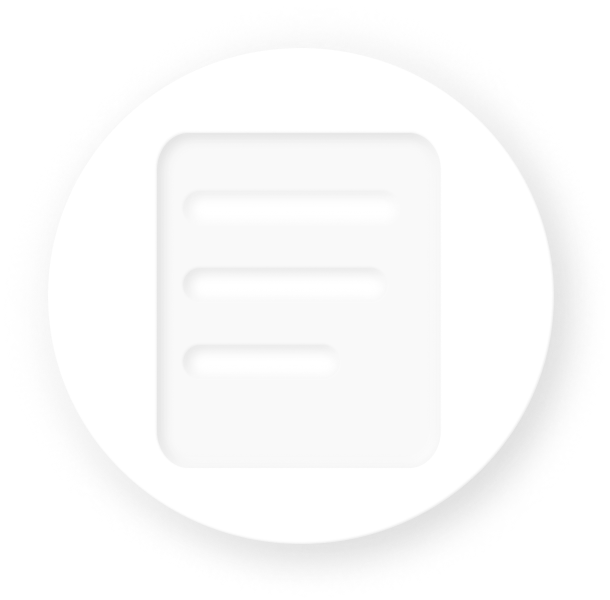
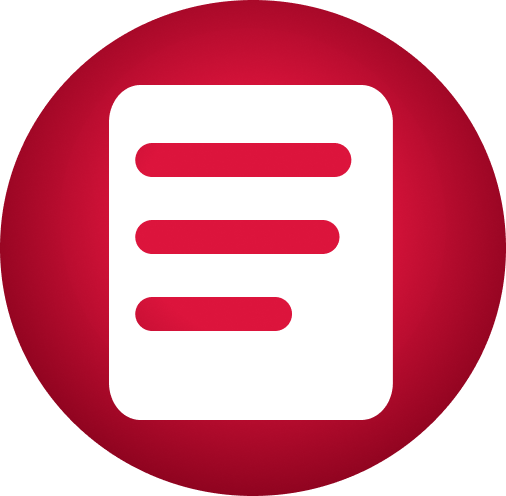
colors

diff --git a/global.scss b/global.scss
@@ -2,6 +2,7 @@ html {
     overflow: scroll;
     overflow-x: hidden;
     height: 110vh;
+    background-color:#2c2c30;
 }
 ::-webkit-scrollbar {
     width: 0;  /* Remove scrollbar space */
@@ -12,7 +13,7 @@ html {
     background: #FF0000;
 }
 div#content{
-    background-color:rgb(255, 255, 255);
+    background-color:#2c2c30;
     width: 95.5vw;
     display: flex;
     flex-wrap: wrap;
@@ -28,26 +29,28 @@ div#content{
         // border: 1px solid rgb(199, 199, 199);
         border-radius: 15px;
         transition: flex 0.4s ease-out, height 0.4s ease-out, margin 0.4s ease-out, opacity 0.4s ease-out;
-        background-color: white;
-        -webkit-box-shadow: 16px 16px 40px 0px rgba(218, 218, 218, 0.90), -16px -16px 32px 0px rgba(255, 255, 255, 0.90), 16px -16px 32px 0px rgba(218, 218, 218, 0.20), -16px 16px 32px 0px rgba(218, 218, 218, 0.20), -1px -1px 2px 0px rgba(218, 218, 218, 0.50) inset, 1px 1px 2px 0px rgba(255, 255, 255, 0.30) inset;
-        -moz-box-shadow: 16px 16px 40px 0px rgba(218, 218, 218, 0.90), -16px -16px 32px 0px rgba(255, 255, 255, 0.90), 16px -16px 32px 0px rgba(218, 218, 218, 0.20), -16px 16px 32px 0px rgba(218, 218, 218, 0.20), -1px -1px 2px 0px rgba(218, 218, 218, 0.50) inset, 1px 1px 2px 0px rgba(255, 255, 255, 0.30) inset;
-        box-shadow: 16px 16px 40px 0px rgba(218, 218, 218, 0.90), -16px -16px 32px 0px rgba(255, 255, 255, 0.90), 16px -16px 32px 0px rgba(218, 218, 218, 0.20), -16px 16px 32px 0px rgba(218, 218, 218, 0.20), -1px -1px 2px 0px rgba(218, 218, 218, 0.50) inset, 1px 1px 2px 0px rgba(255, 255, 255, 0.30) inset;
+        background: rgb(80,85,91);
+        background: linear-gradient(16deg, rgba(80,85,91,1) 0%, rgba(44,44,48,1) 35%, rgba(0,0,0,1) 100%);
+        -webkit-box-shadow: 0px 0px 47px -11px rgba(0,0,0,1);
+        -moz-box-shadow: 0px 0px 47px -11px rgba(0,0,0,1);
+        box-shadow: 0px 0px 47px -11px rgba(0,0,0,1);
         display: flex;
         justify-content: center;
         align-items: center;  
         font-family: 'Montserrat', sans-serif;
         // font-family: 'Raleway', sans-serif;
         font-size: 18pt;
-        font-weight: 500;
+        font-weight: 600;
         overflow: hidden;
         position: relative;
         text-transform: uppercase;
         flex-direction: column;
-        color: #000000;
-        text-shadow: 1px 1px 3px rgba(184, 184, 184, 0.89);
+        color: #DC143C;
+        text-shadow: 1px 1px 3px rgba(32, 7, 7, 0.89);
         }
     .icon{
         width: 6vw;
+        filter: drop-shadow(3px 5px 2px rgb(0 0 0 / 0.4));
     }
     .enigme{
         opacity: 0%;
@@ -256,7 +259,7 @@ div#content{
 
 //login 
 #blocker{
-   background-color: rgb(77, 77, 77);
+   background-color: rgb(0, 0, 0);
    height: 110vh;
    position: absolute;
    width: 100%;
@@ -268,7 +271,7 @@ div#content{
 //    display: none;
 }
 .blurred div{
-    background-color: rgb(255, 255, 255);
+    background-color:#000000;
     height: 100%;
     position: absolute;
     width: 100%;
@@ -280,7 +283,7 @@ div#content{
 }
 .blurred p{
     color: transparent;
-    text-shadow: 0 0 8px #929292;
+    text-shadow: 0 0 8px #DC143C;
 }
 .blurred img{
     filter: blur(8px);
@@ -310,6 +313,8 @@ div#content{
         transform: rotate(0.10turn);
         transition: margin 0.4s ease-out, transform 0.2s ease-out;
         border-radius: 50%;
+        filter: drop-shadow(3px 5px 2px rgb(0 0 0 / 0.4));
+        background-color: #272727;
      }
      .logo:hover{
         margin: 20px;
@@ -347,6 +352,7 @@ div#content{
         top: calc(50% - 20px);
         width: 40px;
         height: 40px;
+        display: none;
     }
   .uicon:nth-child(2) {
         transform: rotate(72deg) translateX(-9vw);

diff --git a/global.css b/global.css
@@ -2,6 +2,7 @@ html {
   overflow: scroll;
   overflow-x: hidden;
   height: 110vh;
+  background-color: #2c2c30;
 }
 
 ::-webkit-scrollbar {
@@ -15,7 +16,7 @@ html {
 }
 
 div#content {
-  background-color: rgb(255, 255, 255);
+  background-color: #2c2c30;
   width: 95.5vw;
   display: flex;
   flex-wrap: wrap;
@@ -32,23 +33,25 @@ div#content div.flex {
   box-sizing: border-box;
   border-radius: 15px;
   transition: flex 0.4s ease-out, height 0.4s ease-out, margin 0.4s ease-out, opacity 0.4s ease-out;
-  background-color: white;
-  box-shadow: 16px 16px 40px 0px rgba(218, 218, 218, 0.9), -16px -16px 32px 0px rgba(255, 255, 255, 0.9), 16px -16px 32px 0px rgba(218, 218, 218, 0.2), -16px 16px 32px 0px rgba(218, 218, 218, 0.2), -1px -1px 2px 0px rgba(218, 218, 218, 0.5) inset, 1px 1px 2px 0px rgba(255, 255, 255, 0.3) inset;
+  background: rgb(80, 85, 91);
+  background: linear-gradient(16deg, rgb(80, 85, 91) 0%, rgb(44, 44, 48) 35%, rgb(0, 0, 0) 100%);
+  box-shadow: 0px 0px 47px -11px rgb(0, 0, 0);
   display: flex;
   justify-content: center;
   align-items: center;
   font-family: "Montserrat", sans-serif;
   font-size: 18pt;
-  font-weight: 500;
+  font-weight: 600;
   overflow: hidden;
   position: relative;
   text-transform: uppercase;
   flex-direction: column;
-  color: #000000;
-  text-shadow: 1px 1px 3px rgba(184, 184, 184, 0.89);
+  color: #DC143C;
+  text-shadow: 1px 1px 3px rgba(32, 7, 7, 0.89);
 }
 div#content .icon {
   width: 6vw;
+  filter: drop-shadow(3px 5px 2px rgba(0, 0, 0, 0.4));
 }
 div#content .enigme {
   opacity: 0%;
@@ -236,7 +239,7 @@ div#content .plan.active ~ .budg {
 }
 
 #blocker {
-  background-color: rgb(77, 77, 77);
+  background-color: rgb(0, 0, 0);
   height: 110vh;
   position: absolute;
   width: 100%;
@@ -248,7 +251,7 @@ div#content .plan.active ~ .budg {
 }
 
 .blurred div {
-  background-color: rgb(255, 255, 255);
+  background-color: #000000;
   height: 100%;
   position: absolute;
   width: 100%;
@@ -261,7 +264,7 @@ div#content .plan.active ~ .budg {
 
 .blurred p {
   color: transparent;
-  text-shadow: 0 0 8px #929292;
+  text-shadow: 0 0 8px #DC143C;
 }
 
 .blurred img {
@@ -289,6 +292,8 @@ div#content .plan.active ~ .budg {
   transform: rotate(0.1turn);
   transition: margin 0.4s ease-out, transform 0.2s ease-out;
   border-radius: 50%;
+  filter: drop-shadow(3px 5px 2px rgba(0, 0, 0, 0.4));
+  background-color: #272727;
 }
 #uint .logo:hover {
   margin: 20px;
@@ -321,12 +326,12 @@ div#content .plan.active ~ .budg {
 #uint .uicon {
   width: 40px;
   background-color: #4400ff;
-  /* display: none; */
   position: absolute;
   left: calc(50% - 20px);
   top: calc(50% - 20px);
   width: 40px;
   height: 40px;
+  display: none;
 }
 #uint .uicon:nth-child(2) {
   transform: rotate(72deg) translateX(-9vw);

diff --git a/main.js b/main.js
@@ -37,7 +37,7 @@ for(i=0;i<x.length; i++){
          var selected = this;
          document.querySelector(".plan").removeEventListener('mouseout', scrollToTop);
          document.querySelector(".contact").removeEventListener('mouseout', scrollToTop);
-        document.querySelector("#blocker").style = "z-index:10; opacity: 20%; display: block;";
+        document.querySelector("#blocker").style = "z-index:10; opacity: 30%; display: block;";
         document.querySelector("#blocker").addEventListener('click', function(){
             selected.classList.remove("active"); 
             document.querySelector("#blocker").style = "z-index:-1; display: none";
@@ -55,7 +55,7 @@ var isBlocked = 0;
 document.querySelector(".logo").addEventListener('click',function (e) {
     this.classList.toggle('ok');
     blocker = document.getElementById("blocker");
-    blocker.style = "z-index:1; opacity: 10%; display: block;";
+    blocker.style = "z-index:1; opacity: 30%; display: block;";
     console.log(isBlocked);
 
     if(!this.classList.contains("ok")){

diff --git a/index.html b/index.html
@@ -38,7 +38,7 @@
     <div id="uint" class="idk"><div id="logo"><img src="assets/logo.png" class="logo" alt="" srcset=""><div class ="uicon" id="icon1"></div><div class ="uicon" id="icon2"></div><div class ="uicon" id="icon3"></div><div class ="uicon" id="icon4"></div></div></div>
     <div id ="content">
         <div class="map flex">
-            <img class="icon mapicon" src="assets/map2.png" alt="">
+            <img class="icon mapicon" src="assets/map.png" alt="">
             <p>Cartes</p>
             <img class="enigme" src="assets/world-140304_1280.jpg" alt="" srcset="">
         </div>
